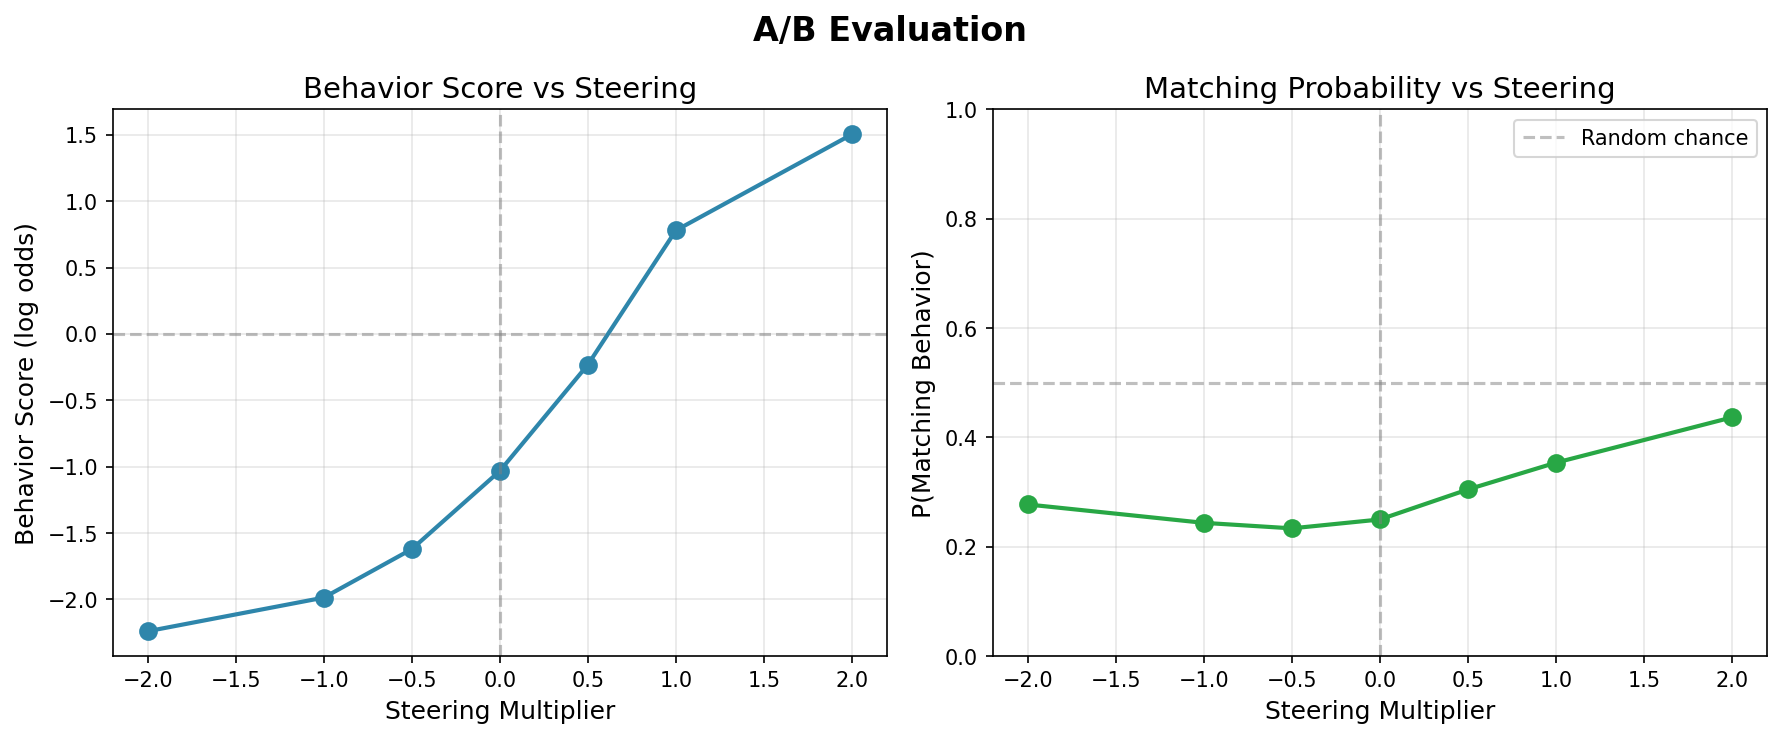
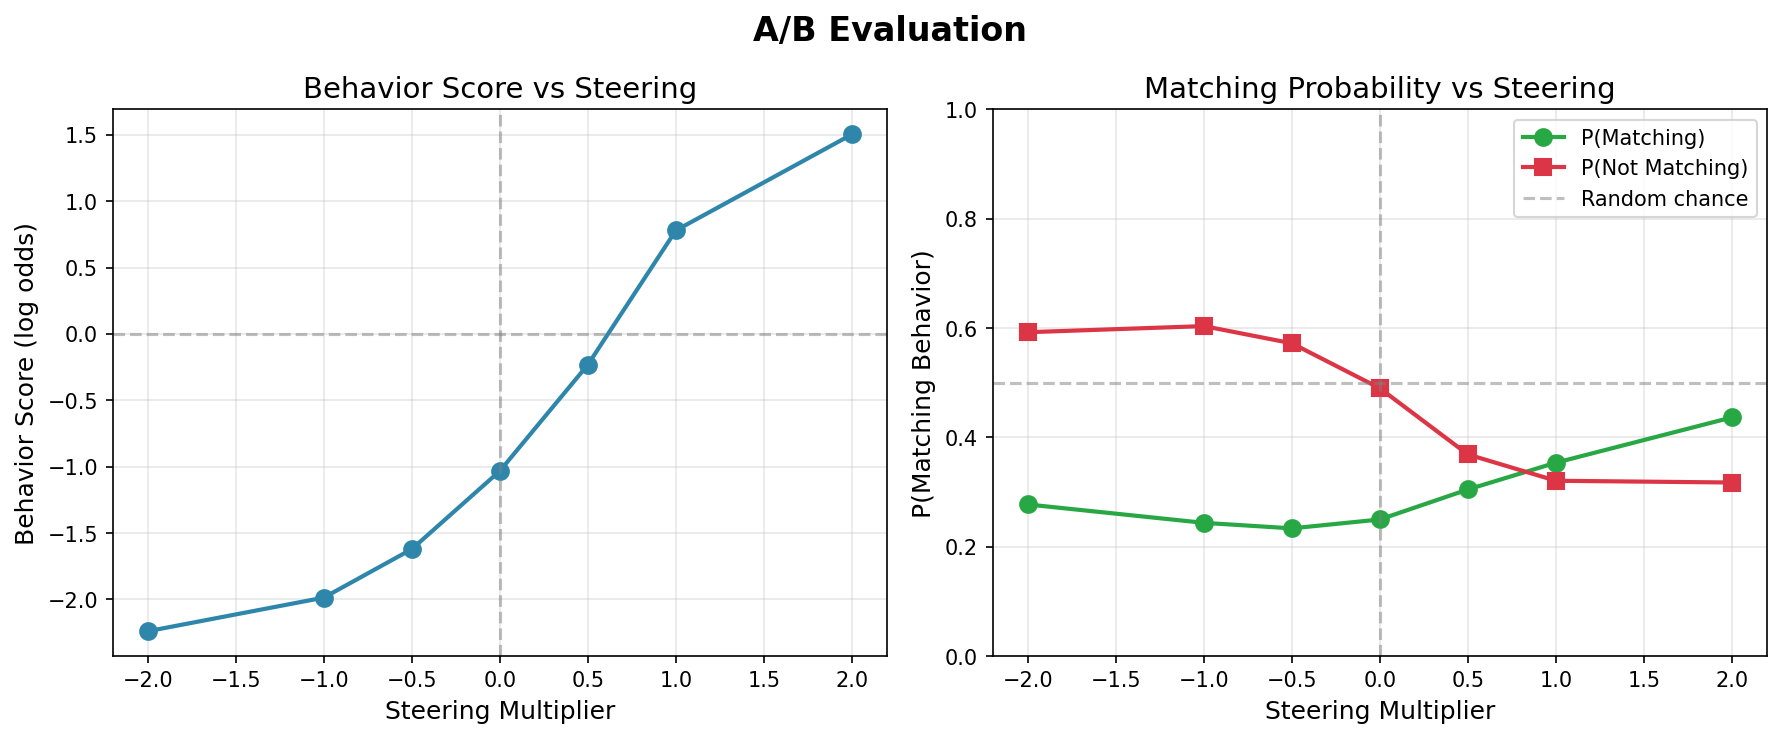
added non-matching line to ab visualization

diff --git a/visualize_results.py b/visualize_results.py
@@ -26,6 +26,7 @@ def plot_ab_evaluation(results: Dict, output_path: str, title: str = "A/B Evalua
     multipliers = sorted([float(m) for m in results.keys()])
     behavior_scores = [results[str(m) if str(m) in results else m]["behavior_score"] for m in multipliers]
     matching_probs = [results[str(m) if str(m) in results else m]["matching_prob"] for m in multipliers]
+    not_matching_probs = [results[str(m) if str(m) in results else m]["not_matching_prob"] for m in multipliers]
     
     fig, axes = plt.subplots(1, 2, figsize=(12, 5))
     
@@ -41,11 +42,12 @@ def plot_ab_evaluation(results: Dict, output_path: str, title: str = "A/B Evalua
     
     # Matching probability
     ax2 = axes[1]
-    ax2.plot(multipliers, matching_probs, 'o-', markersize=8, linewidth=2, color='#28A745')
+    ax2.plot(multipliers, matching_probs, 'o-', markersize=8, linewidth=2, color='#28A745', label='P(Matching)')
+    ax2.plot(multipliers, not_matching_probs, 's-', markersize=8, linewidth=2, color='#DC3545', label='P(Not Matching)')
     ax2.axhline(y=0.5, color='gray', linestyle='--', alpha=0.5, label='Random chance')
     ax2.axvline(x=0, color='gray', linestyle='--', alpha=0.5)
     ax2.set_xlabel('Steering Multiplier', fontsize=12)
-    ax2.set_ylabel('P(Matching Behavior)', fontsize=12)
+    ax2.set_ylabel('Probability', fontsize=12)
     ax2.set_title('Matching Probability vs Steering', fontsize=14)
     ax2.set_ylim(0, 1)
     ax2.grid(True, alpha=0.3)
